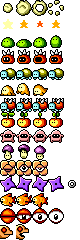
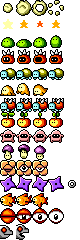
Face enemy

Changed region(s): [[0.2, 0.9333, 0.35, 1.0], [0.0, 0.9333, 0.15, 0.9917]]

diff --git a/src/enemy.ts b/src/enemy.ts
@@ -956,7 +956,7 @@ export class FakeBlock extends Enemy {
 
         super(x, y-1, 8, entityID, false);
 
-        this.center = new Vector2(0, 0);
+        this.center = new Vector2(0, -1);
         this.collisionBox.y = 16;
         this.hitbox = new Vector2(10, 10);
 
@@ -1310,10 +1310,98 @@ export class Eye extends Enemy {
 }
 
 
+class FaceRight extends Enemy {
+
+
+    static WAIT_TIME = 60;
+
+
+    private waitTime : number;
+    private mouthOpen : boolean;
+
+
+    constructor(x : number, y : number, entityID : number) {
+
+        super(x, y, 12, entityID, false);
+
+        this.center = new Vector2(0, 0);
+        this.hitbox = new Vector2(10, 8);
+
+        this.canBeKnockedDown = false;
+
+        this.waitTime = 0;
+        this.mouthOpen = false;
+
+        this.dir = 1;
+
+        this.respawnEvent();
+    }
+
+
+    protected respawnEvent() {
+
+        this.waitTime = FaceRight.WAIT_TIME;
+        this.mouthOpen = false;
+
+        this.spr.setFrame(0, this.spr.getRow());
+    }
+
+
+    private shootBullet(event : CoreEvent) {
+
+        const SPEED = 2.0;
+
+        this.projectileCb(this.pos.x + this.dir*4, this.pos.y+2,
+            SPEED * this.dir, 0, false, 1, false);
+    }
+
+
+    protected updateAI(event : CoreEvent) { 
+
+        const ANIM_SPEED = 30;
+
+        if (!this.mouthOpen) {
+
+            if ((this.waitTime -= event.step) <= 0) {
+
+                this.shootBullet(event);
+                this.mouthOpen = true;
+
+                this.spr.setFrame(1, this.spr.getRow());
+            }
+        }
+        else {
+
+            this.spr.animate(this.spr.getRow(), 1, 0, ANIM_SPEED, event.step);
+            if (this.spr.getColumn() == 0) {
+
+                this.mouthOpen = false;
+
+                this.waitTime = FaceRight.WAIT_TIME;
+            }
+        }
+    }
+}
+
+
+export class FaceLeft extends FaceRight {
+    
+    
+    constructor(x : number, y : number, entityID : number) {
+
+        super(x, y, entityID);
+
+        this.dir = -1;
+        this.flip = Flip.Horizontal;
+    }
+}
+
+
 const ENEMY_TYPES = [
     Slime, SpikeSlime, Turtle, 
     Seal, SpikeTurtle, Apple, 
     Imp, Mushroom, FakeBlock, 
-    Spinner, Fish, Eye];
+    Spinner, Fish, Eye,
+    FaceRight, FaceLeft];
 
 export const getEnemyType = (index : number) : Function => ENEMY_TYPES[clamp(index, 0, ENEMY_TYPES.length-1)];
